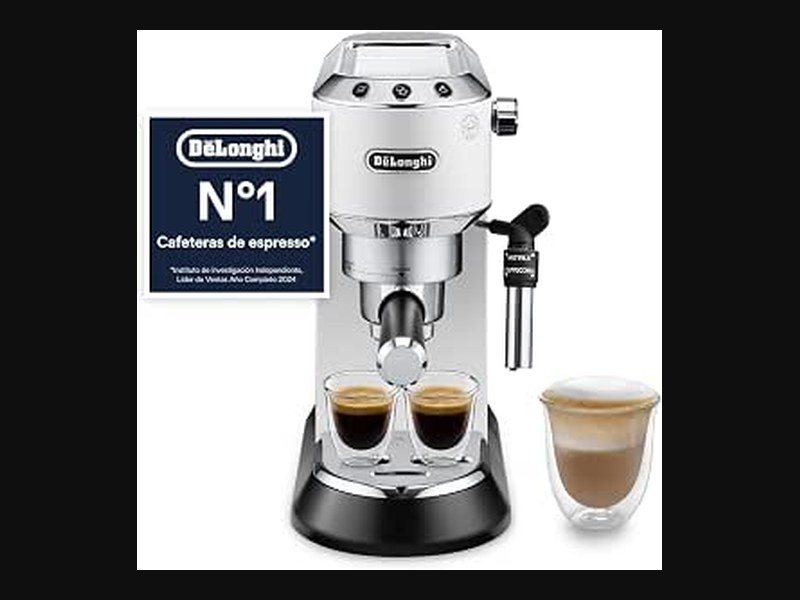
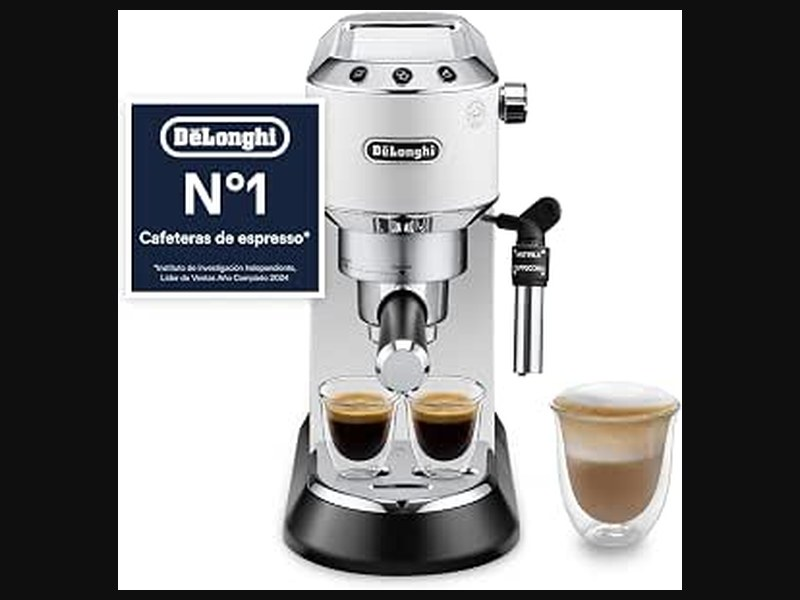
fix(images): 3 primeras a 580px alto + ProductImage p-0 sin recorte
Dedica 564x580, Victoria 413x580, Specialista 760x547 — ya llenan canvas 800x600, todas 15 ahora uniformes

Changed region(s): [[0.125, 0.0, 0.875, 0.99]]

diff --git a/src/components/ui/ProductImage.tsx b/src/components/ui/ProductImage.tsx
@@ -11,10 +11,10 @@ export function ProductImage({ src, alt, className="aspect-[4/3]" }: { src: stri
     );
   }
   return (
-    <div className={`${className} relative overflow-hidden rounded-xl bg-gradient-to-b from-stone-900 to-stone-950 border border-stone-800 flex items-center justify-center p-1`}>
+    <div className={`${className} relative overflow-hidden rounded-xl bg-gradient-to-b from-stone-900 to-stone-950 border border-stone-800 flex items-center justify-center p-0`}>
     <div className="absolute inset-0 bg-[radial-gradient(ellipse_at_center,_var(--tw-gradient-stops))] from-amber-500/10 via-transparent to-transparent pointer-events-none" />
     {/* eslint-disable-next-line @next/next/no-img-element */}
-    <img src={src} alt={alt} onError={()=>setErr(true)} className="relative w-full h-full object-contain brightness-100 contrast-105 drop-shadow-[0_10px_20px_rgba(0,0,0,0.8)] mix-blend-normal scale-105" />
+    <img src={src} alt={alt} onError={()=>setErr(true)} className="relative w-full h-full object-contain brightness-100 contrast-105 drop-shadow-[0_10px_20px_rgba(0,0,0,0.8)] mix-blend-normal" />
     </div>
   );
 }
